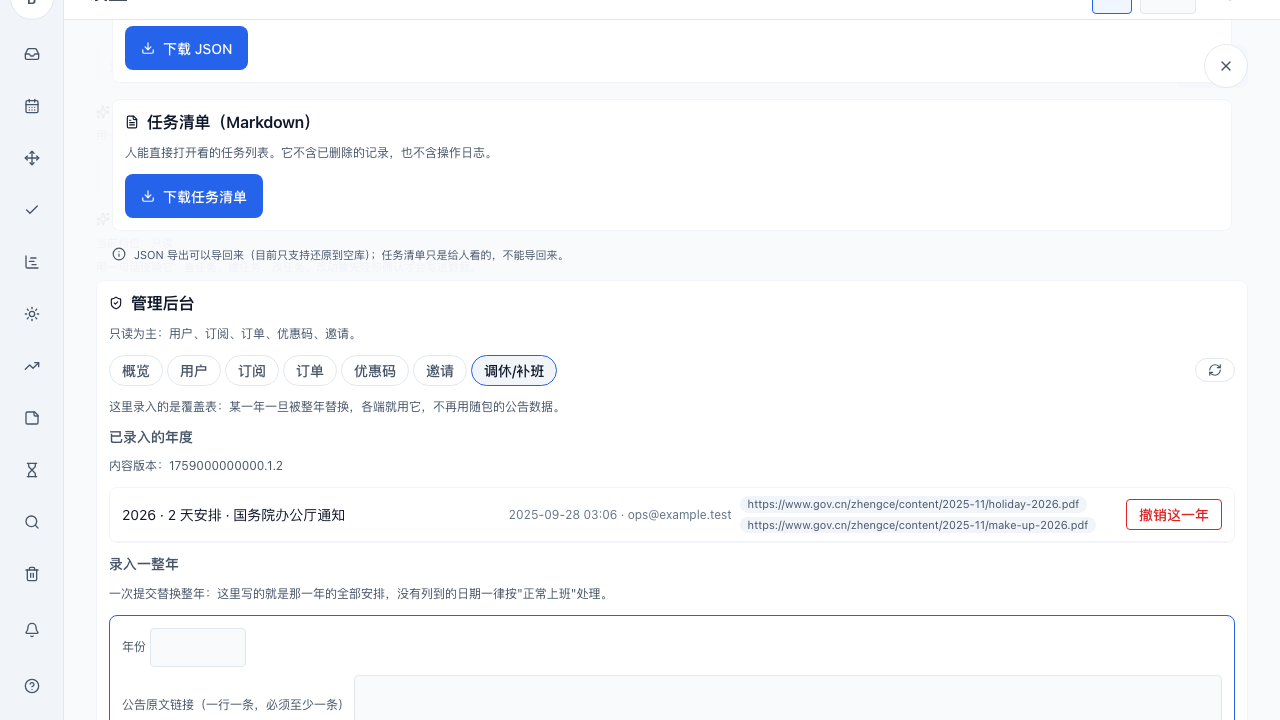
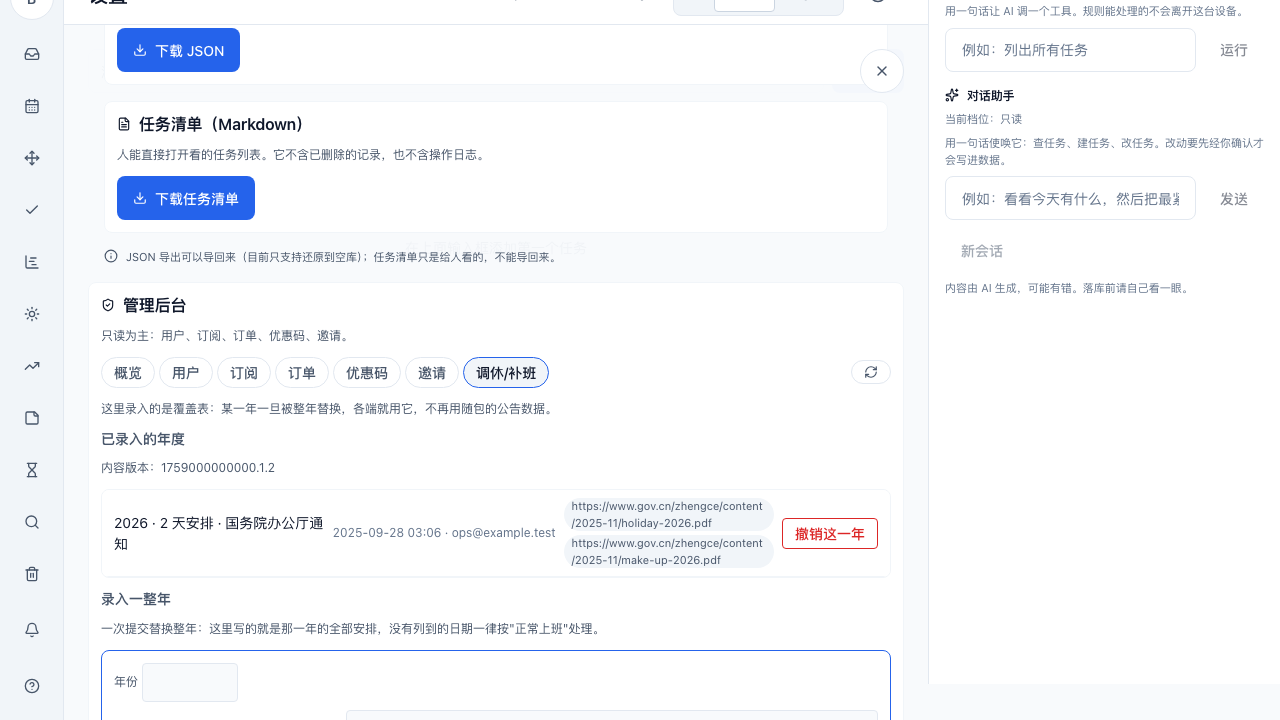
fix(web,admin): 后台年度那一格不再被省略号吃掉 13px（E2E-MERGE-01 抓到的真缺陷）
合并里我手工裁决的 4 份 Playwright 用例第一次真跑：`1 failed / 10 passed`（`RC_E2E4=1`），
红的是 `admin-console.spec.ts:862` 那条**几何**判据（`scrollWidth − clientWidth ≤ 1`），
而同一趟里 `toContainText(2026)`、`href` 逐字等于 URL、`rel` 那十条文本断言全绿。
⇒ 文本断言只验"写了什么"，不验"看得见的有多少"；这一层没跑，缺陷就没人看得见。

根因：上一版只让出处那排徽标肯收缩（`--papers` 的 `flex: 1 1 0`），
但 `rowMain` 自己仍是 `white-space: nowrap` + ellipsis ⇒ 整段"· 国务院办公厅通知"里被吃掉 13px。
修法按不变量走，**没有抬阈值、没有把 URL 拍短**：新增 `.ht-settings__admin-rowMain--wrap` 只挂年度那一格
（年度 / 条数 / 备注三段没有一段允许被省略号替掉）；共用那条不动 —— 邮箱排的 ellipsis 是有意的。

三条读数：
- 修前（合并态 `d5e1322c`，工作树干净）：`1 failed / 10 passed`，裁切 13px
- 修后：`RC_WRAPFIX=0`，复跑 `RC_REFINAL=0`（`1 passed (19.0s)`）
- 🔴 变异（摘掉 `--wrap` 再跑）：`RC_MUT_WRAP=1`，报错里的裁切值**又是 13px** ⇒ 绿确实是这个修饰符给的

两张图人都打开看过：缺陷态 `2026 · 2 天安排 · 国务院办公厅…`，修后同一格两行、两条 gov.cn URL 各自可读。
缺陷态图作为 `admin-holiday-papers-round2-before.png` 入库（它是变异那一趟覆盖 `shoot()` 前抢下来的现场），
证据 README 的 md5 表同步为三行，并记下"这张表本身是会漂的抄件"。

改动面门禁与 web 全量：RC[check:design]=0 / RC[check:l4]=0 / RC[check:row-single-source]=0 /
RC[check:ui-language]=0 / 四件文档门禁 =0 / RC_WEBCHECK=0 /
RC_WEBTEST=0（`Test Files 133 passed | 2 skipped (135)`，`Tests 1767 passed | 13 skipped`）。

diff --git a/apps/web/src/styles/app/admin.css b/apps/web/src/styles/app/admin.css
@@ -233,6 +233,24 @@
   flex-wrap: wrap;
 }
 
+/**
+ * 🔴 年度那一格**整条不许裁切**（`white-space: nowrap` + 省略号是共用的
+ * `.ht-settings__admin-rowMain` 的行为，对邮箱那排是对的，对这一排是缺陷）。
+ *
+ * 上一条 `--papers` 让徽标那排肯收缩了，但**没解决这一格自己有多长**：
+ * "2026 · 2 天安排 · 国务院办公厅通知" 是一条 nowrap 的整串，
+ * 行内没有多余空间时它仍然被裁掉 13px ⇒ 年份看不见（实测读数，非推断）。
+ * 年度、条数、备注三条都是运营要核对的内容，**没有一条是可以被省略号替掉的**，
+ * 所以这里按"内容必须全部可见"改，而不是把 URL 拍短。
+ *
+ * 不动共用那条的理由与 `--papers` 同：邮箱排里 ellipsis 是**有意的**。
+ */
+.ht-settings__admin-rowMain--wrap {
+  white-space: normal;
+  overflow: visible;
+  text-overflow: clip;
+}
+
 .ht-settings__admin-badge {
   border-radius: var(--ht-radius-full);
   background: var(--ht-color-border-subtle);

diff --git a/apps/web/src/features/admin/AdminPanel.tsx b/apps/web/src/features/admin/AdminPanel.tsx
@@ -694,7 +694,7 @@ function HolidayPanel(props: { store: AdminStoreState }): React.JSX.Element {
             <ul className="ht-settings__admin-list" data-testid="admin-holiday-years">
               {years.years.map((year) => (
                 <li key={year.year} className="ht-settings__admin-staticRow">
-                  <span className="ht-settings__admin-rowMain">
+                  <span className="ht-settings__admin-rowMain ht-settings__admin-rowMain--wrap">
                     {year.year} ·{' '}
                     {t('web.admin.holiday.dayCount').replace('{count}', String(year.dayCount))}
                     {year.note === null ? '' : ` · ${year.note}`}

diff --git a/apps/web/evidence/admin-holiday/README.md b/apps/web/evidence/admin-holiday/README.md
@@ -9,8 +9,14 @@ cd e2e && npx playwright test tests/admin-console.spec.ts
 
 | 文件 | md5 | 尺寸 | 是哪一趟 |
 |---|---|---|---|
-| `admin-holiday-papers-before-fix.png` | `8970c7327657b3e123fee0a68f51dfaa` | 101 662 B | 修复**之前**（CSS 第一版，事后证明那一版无效） |
-| `admin-holiday-papers.png` | `f14afbc0a6abf541400143e9b6189b5a` | 107 150 B | 修复**之后**（`flex: 1 1 0` 那一版，同一趟 6 passed） |
+| `admin-holiday-papers-before-fix.png` | `8970c7327657b3e123fee0a68f51dfaa` | 101 662 B | 第一轮修复**之前**（CSS 第一版，事后证明那一版无效） |
+| `admin-holiday-papers-round2-before.png` | `babbdb5cdc87d953a8dce36e87c87542` | 130 634 B | **第二轮缺陷态**：第一版修完之后仍被裁掉 13px（合并态现量，见下面"第二轮"） |
+| `admin-holiday-papers.png` | `7892957ab6711bbf95931540977b5d18` | 131 328 B | **第二轮修复之后**（`--wrap` 修饰符，`RC_REFINAL=0`） |
+
+⚠ 这张表本身就是**会漂的抄件**：第二轮那次跑完之后它一度是过期的（表里 `admin-holiday-papers.png`
+还写着第一轮的 `f14afbc0…`，而盘上字节已经换了三次）。留在这里的理由不是"记一下"，
+而是**下一轮改这张图的人必须知道表要跟着改** —— 表与图不同步比没有表更糟，
+因为它给的是一个看起来精确的假读数。
 
 两枚 md5 不同是这条对照链的最低要求：**改前与改后逐字节相同 ⇒ 那张"改后图"什么都没证明**
 （本轮早些时候它俩确实相同过，因为那时"改后"的 CSS 还没生效）。
@@ -36,6 +42,40 @@ cd e2e && npx playwright test tests/admin-console.spec.ts
    这一条**登记不改**：运营者录入时给的就是整条 URL，界面把它原样回显是
    "让她能核对出处"的一部分；改成"来源 1 / 来源 2 + 悬浮展开"会让她看不见自己录了什么。
    取舍写在这里，而不是留给下一个人重新纠结一遍。
+
+## 第二轮：第一版修完之后，那条几何判据在合并态又红了
+
+上面那张"改后"图对应的修复（给徽标排 `flex: 1 1 0`）**没有把缺陷修完** ——
+它让出处那排肯收缩了，但 `rowMain` 自己还是 `white-space: nowrap` + 省略号，
+所以整格仍被裁掉 **13px**：界面上是 `2026 · 2 天安排 · 国务院办公厅…`，
+**被吃掉的只有"通知"两个字**（对比第一轮那张 `2026…`，那一版吃掉的是一整段）。
+
+这一发是 `E2E-MERGE-01` 抓到的：合并态第一次真跑那 4 份 Playwright 用例
+⇒ `1 failed / 10 passed`，红的那条正是这里（`admin-console.spec.ts:862`，
+报错原文 `年度那一格被裁掉 13px`），而**同一趟里其余十条断言全绿** ——
+包括 `toContainText('2026')`、`toHaveCount(HOLIDAY_PAPERS)`、`href` 逐字等于 URL、`rel` 那几条。
+⇒ 再次坐实本文件上面第 1 条：**文本断言只验写了什么，不验看得见的有多少**。
+
+修法（`admin.css` 新增 `.ht-settings__admin-rowMain--wrap`，只挂在年度这一格）：
+这一格的三段内容（年度 / 条数 / 备注）**没有一段可以被省略号替掉**，所以让它换行，
+而不是把 URL 拍短、也不是把阈值从 `≤1` 抬到 `≤20`。共用那条不动的理由与 `--papers` 同：
+邮箱那排的 ellipsis 是有意的。
+
+三条读数（都是这一趟现量，不是推断）：
+
+| 步骤 | 读数 |
+|---|---|
+| 修之前（合并态 `d5e1322c`） | `1 failed / 10 passed`，`RC_E2E4=1`，裁切 **13px** |
+| 修之后单跑 | `1 passed (19.1s)`，`RC_WRAPFIX=0` / `RC_REFINAL=0` |
+| 🔴 变异（把 `--wrap` 修饰符摘掉再跑） | `RC_MUT_WRAP=1`，报错里的裁切值**又是 13px** ⇒ 绿确实是这个修饰符给的，不是环境或时序 |
+
+⚠ 变异那一趟**会顺手把证据图覆盖掉**（`shoot()` 在断言之前），所以盘上那枚
+`admin-holiday-papers.png` 在变异跑完的那一刻装的是**缺陷态**。
+本目录因此多了一张 `admin-holiday-papers-round2-before.png` —— 它不是"另外采的证"，
+而是那次覆盖留下的现场，被我在重跑前 `cp` 出来了。
+次序如果反过来（先重跑再 cp）就什么都留不下：这一轮我第一次就搞反了，
+所以第一轮的"改前图"只剩日志里那行 `13px`。**采集类判据的产物是会被下一次跑吃掉的**，
+要留对照就得在覆盖之前落盘。
 
 ## 与 AGENTS §6.2 规定一的关系
 
